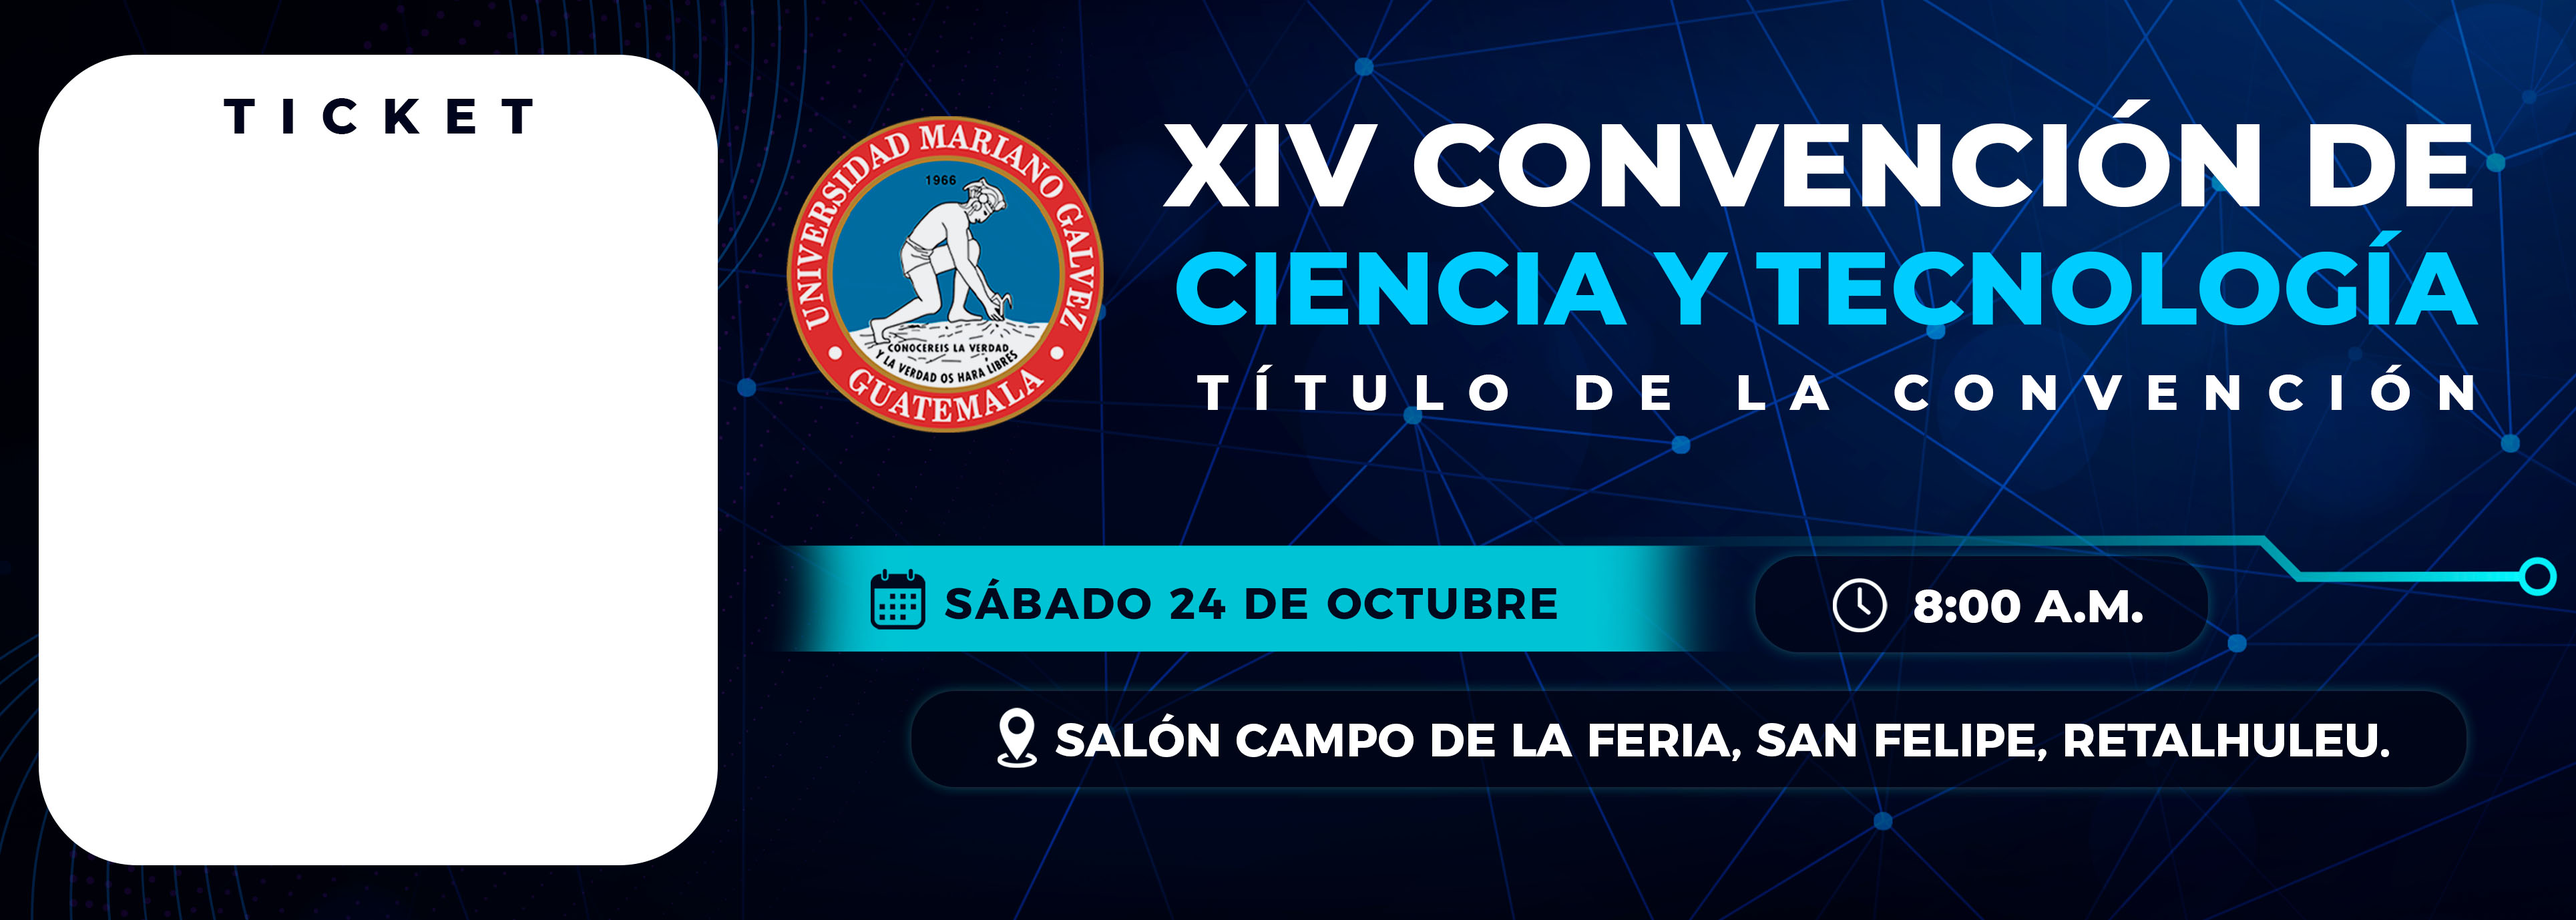
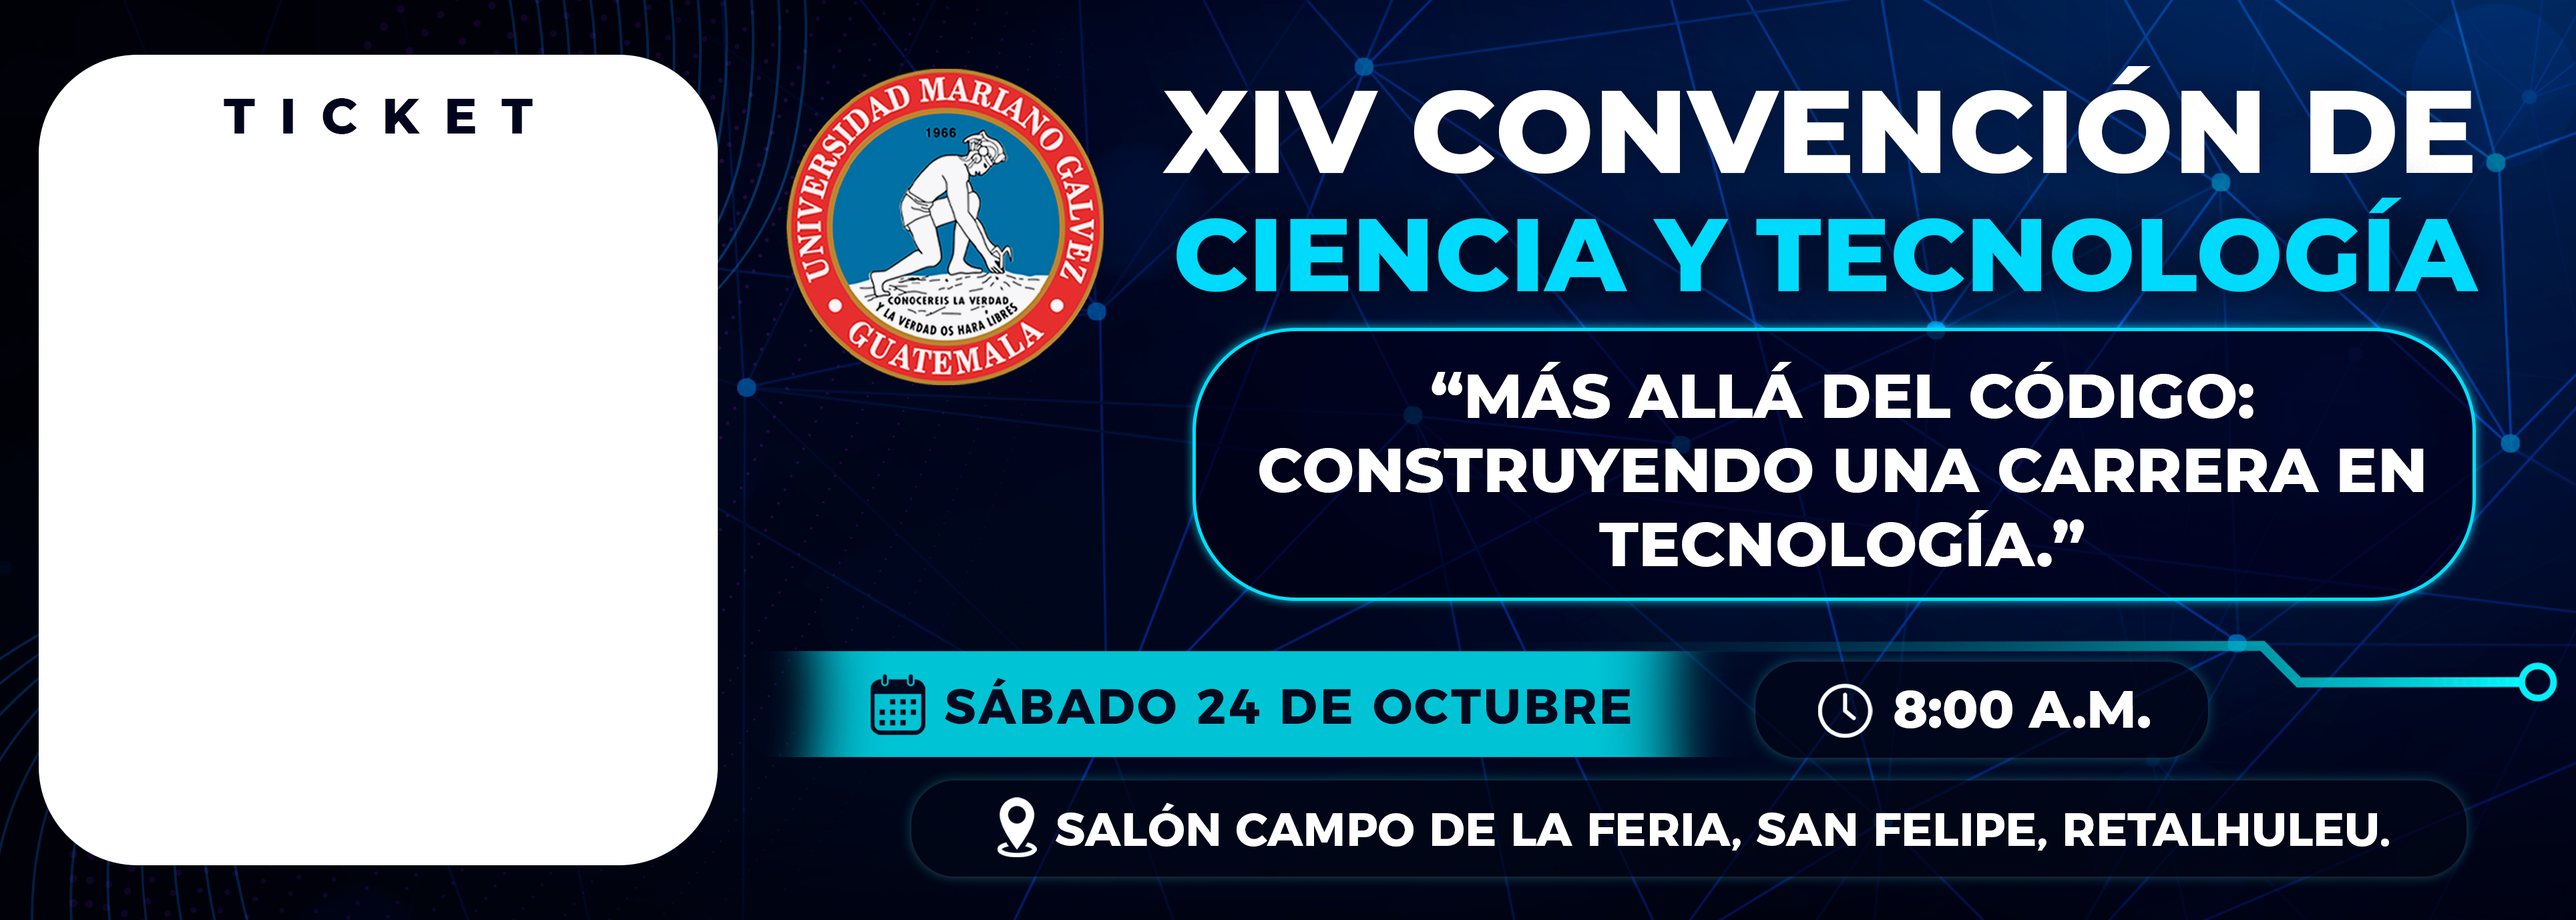
ticket update and redes

Changed region(s): [[0.2799, 0.0624, 0.9953, 0.9673]]

diff --git a/Backend/src/services/email.service.ts b/Backend/src/services/email.service.ts
@@ -58,6 +58,24 @@ const EMAIL_EVENT_COPY = {
   startTime: "08:00 AM",
 };
 
+const SOCIAL_LINKS = [
+  {
+    label: "Facebook",
+    url: "https://www.facebook.com/share/1LV8f9mVjm/",
+    color: "#1877F2",
+  },
+  {
+    label: "Instagram",
+    url: "https://www.instagram.com/decimosistemas.umg?stkn=ZWRrNWs5amZjYjd1",
+    color: "#E1306C",
+  },
+  {
+    label: "TikTok",
+    url: "https://www.tiktok.com/@estudiantessistemasreu1?_r=1&amp;_t=ZS-9A9nnBu25HI",
+    color: "#000000",
+  },
+] as const;
+
 function formatEventDate(isoDate: string): string {
   const date = new Date(`${isoDate}T12:00:00`);
   if (Number.isNaN(date.getTime())) return isoDate;
@@ -116,6 +134,22 @@ function buildTicketEmailHtml(name: string, eventDate: string): string {
               </p>
               <p style="margin:0;color:#2563EB;font-size:16px;font-weight:bold;">
                 ¡Nos vemos en la convención!
+              </p>
+            </td>
+          </tr>
+          <tr>
+            <td style="padding:24px 28px 28px;border-top:1px solid #e2e8f0;text-align:center;">
+              <p style="margin:0 0 14px;color:#0f172a;font-size:15px;font-weight:bold;">
+                Síguenos en nuestras páginas oficiales
+              </p>
+              <div>
+                ${SOCIAL_LINKS.map(
+                  (link) =>
+                    `<a href="${link.url}" target="_blank" rel="noopener" style="display:inline-block;margin:0 4px 8px;padding:9px 16px;background:${link.color};color:#ffffff;font-size:14px;font-weight:bold;text-decoration:none;border-radius:999px;">${link.label}</a>`
+                ).join("")}
+              </div>
+              <p style="margin:6px 0 0;color:#94a3b8;font-size:11px;letter-spacing:0.04em;">
+                Estas redes sociales son de la CONVENCIÓN.
               </p>
             </td>
           </tr>
